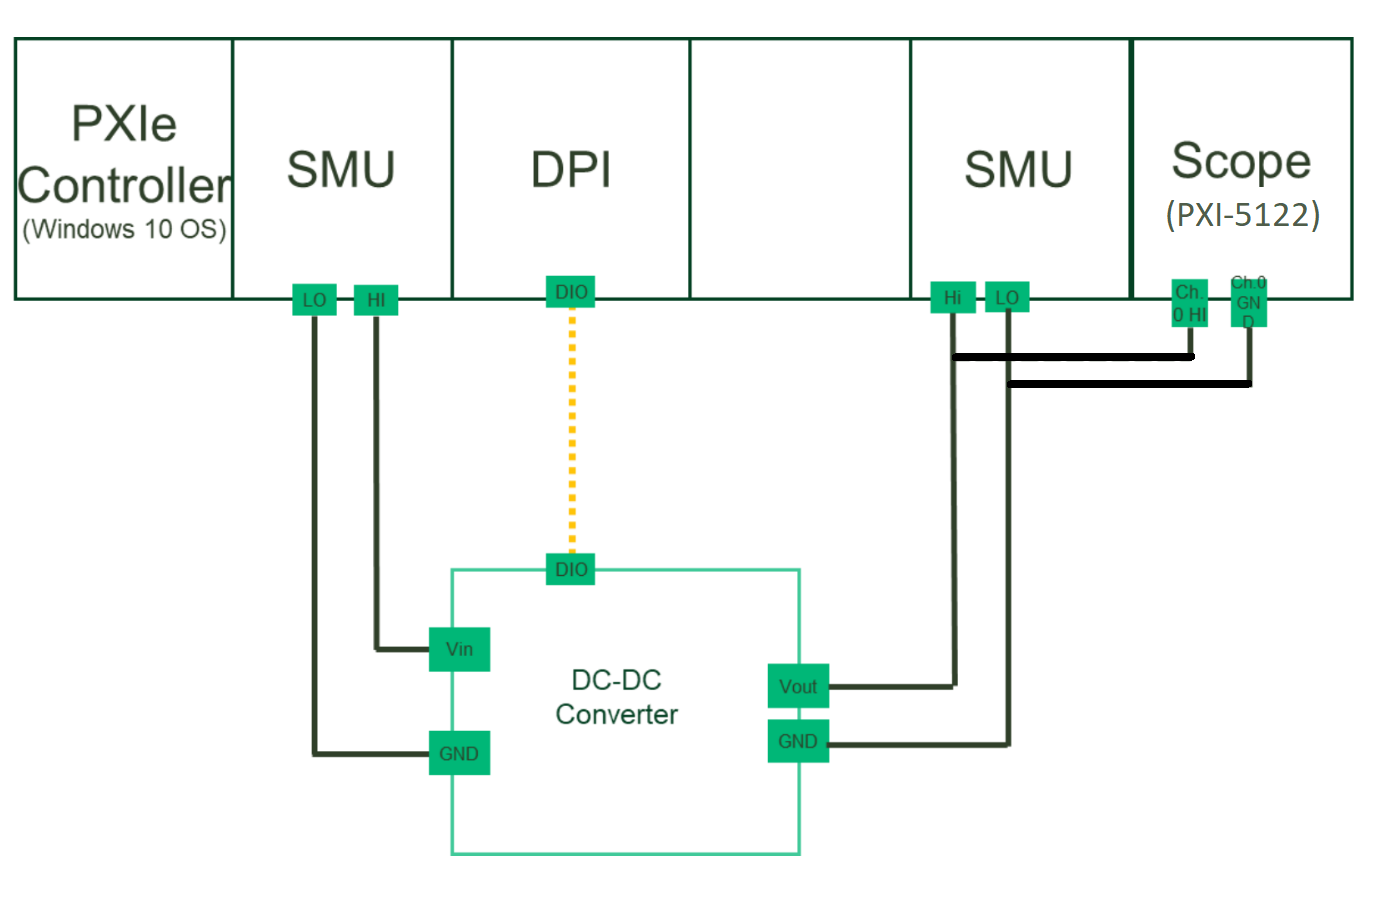
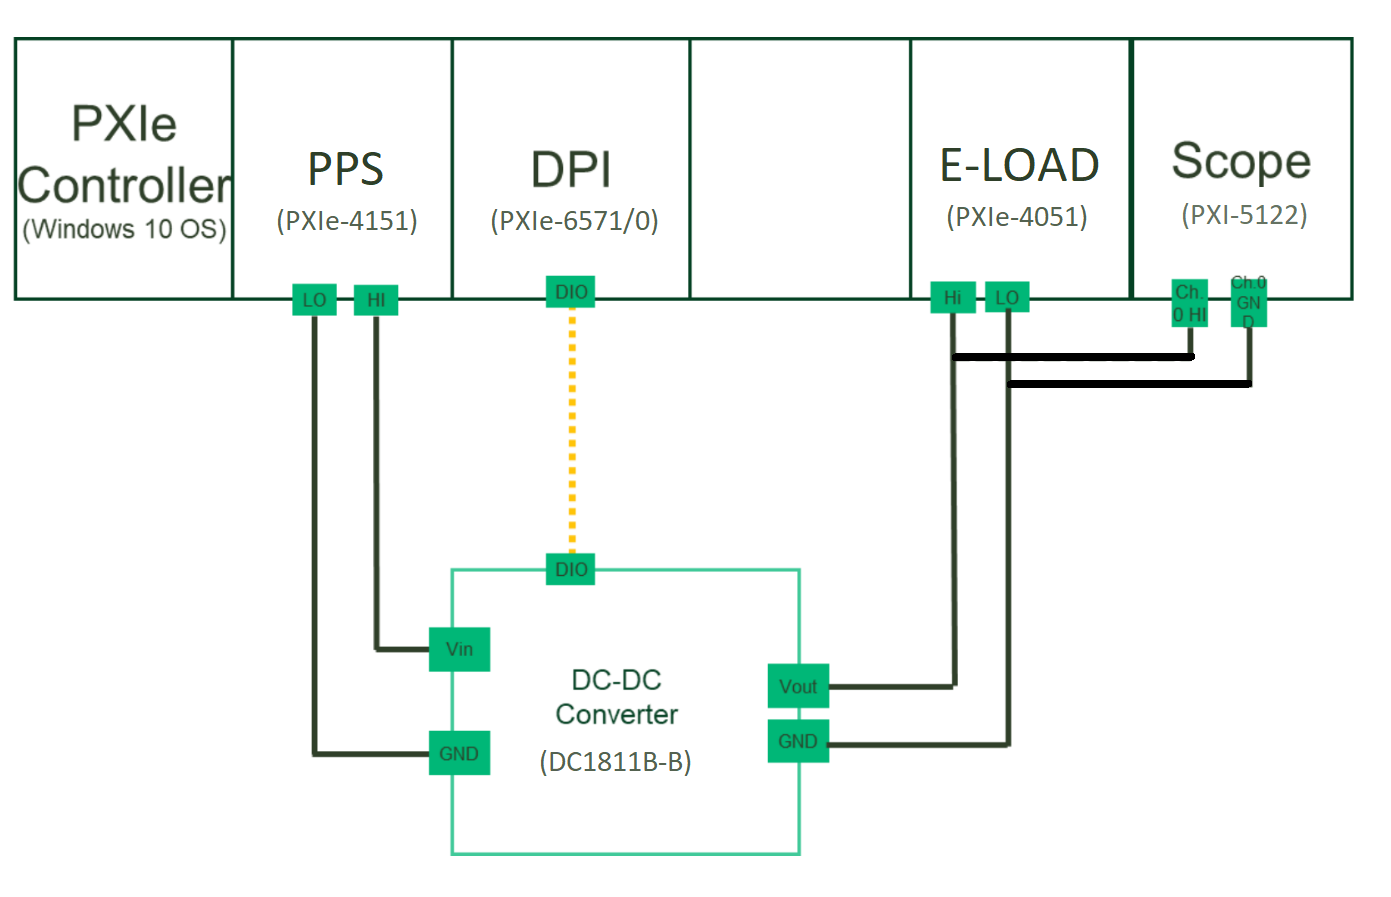
updating documentation

diff --git a/README.md b/README.md
@@ -1,19 +1,18 @@
-# PMIC - python
+# PMIC - Python
 
- These MeasurementLink Python plugins makes measurements for Power Management IC's.
+ This MeasurementLink Python plugin makes measurements for Power Management IC's.
  
  The tests supplies power to the DUT and sinks power from the DUT and validates the DUT's specifications by performing measurements that are common for PMIC's.
 
 ## Key Features
 
-   - Ripple
    - Output Voltage Accuracy
+   - Ripple
 
 Click here for a detailed list of measurements and their functionality: [Measurement List](docs/measurements/meas-index.md)
 
-## Hardware Setup
-![Hardware setup](docs/images/hw-setup.png)
-Instrumentation:
+## Hardware Dependencies
+
 - NI Programmable Power Supply (PXIe-4151)
 - NI Electronic Load (PXIe-4051)
 - Digital Pattern Instrument (PXIe-6570/1) (note: the software does not include DPI or its dependencies, but it may be required to communicate with the DUT)
@@ -22,7 +21,7 @@ Instrumentation:
 Tested hardware setup:
 - PXIe-4151
 - PXIe-4051
-- PXI-5122 (used in ripple)
+- PXI-5122
 - PXIe-6570/1
 
 ## Software Dependencies

diff --git a/docs/measurements/output-voltage-accuracy.md b/docs/measurements/output-voltage-accuracy.md
@@ -1,6 +1,9 @@
 # Output Voltage Accuracy
 This service performs Output Voltage Accuracy measurements.
 
+## Hardware Setup
+![alt text](meas-images/hw-setup.png)
+
 ## InstrumentStudio Panel
 
 ### Usage
